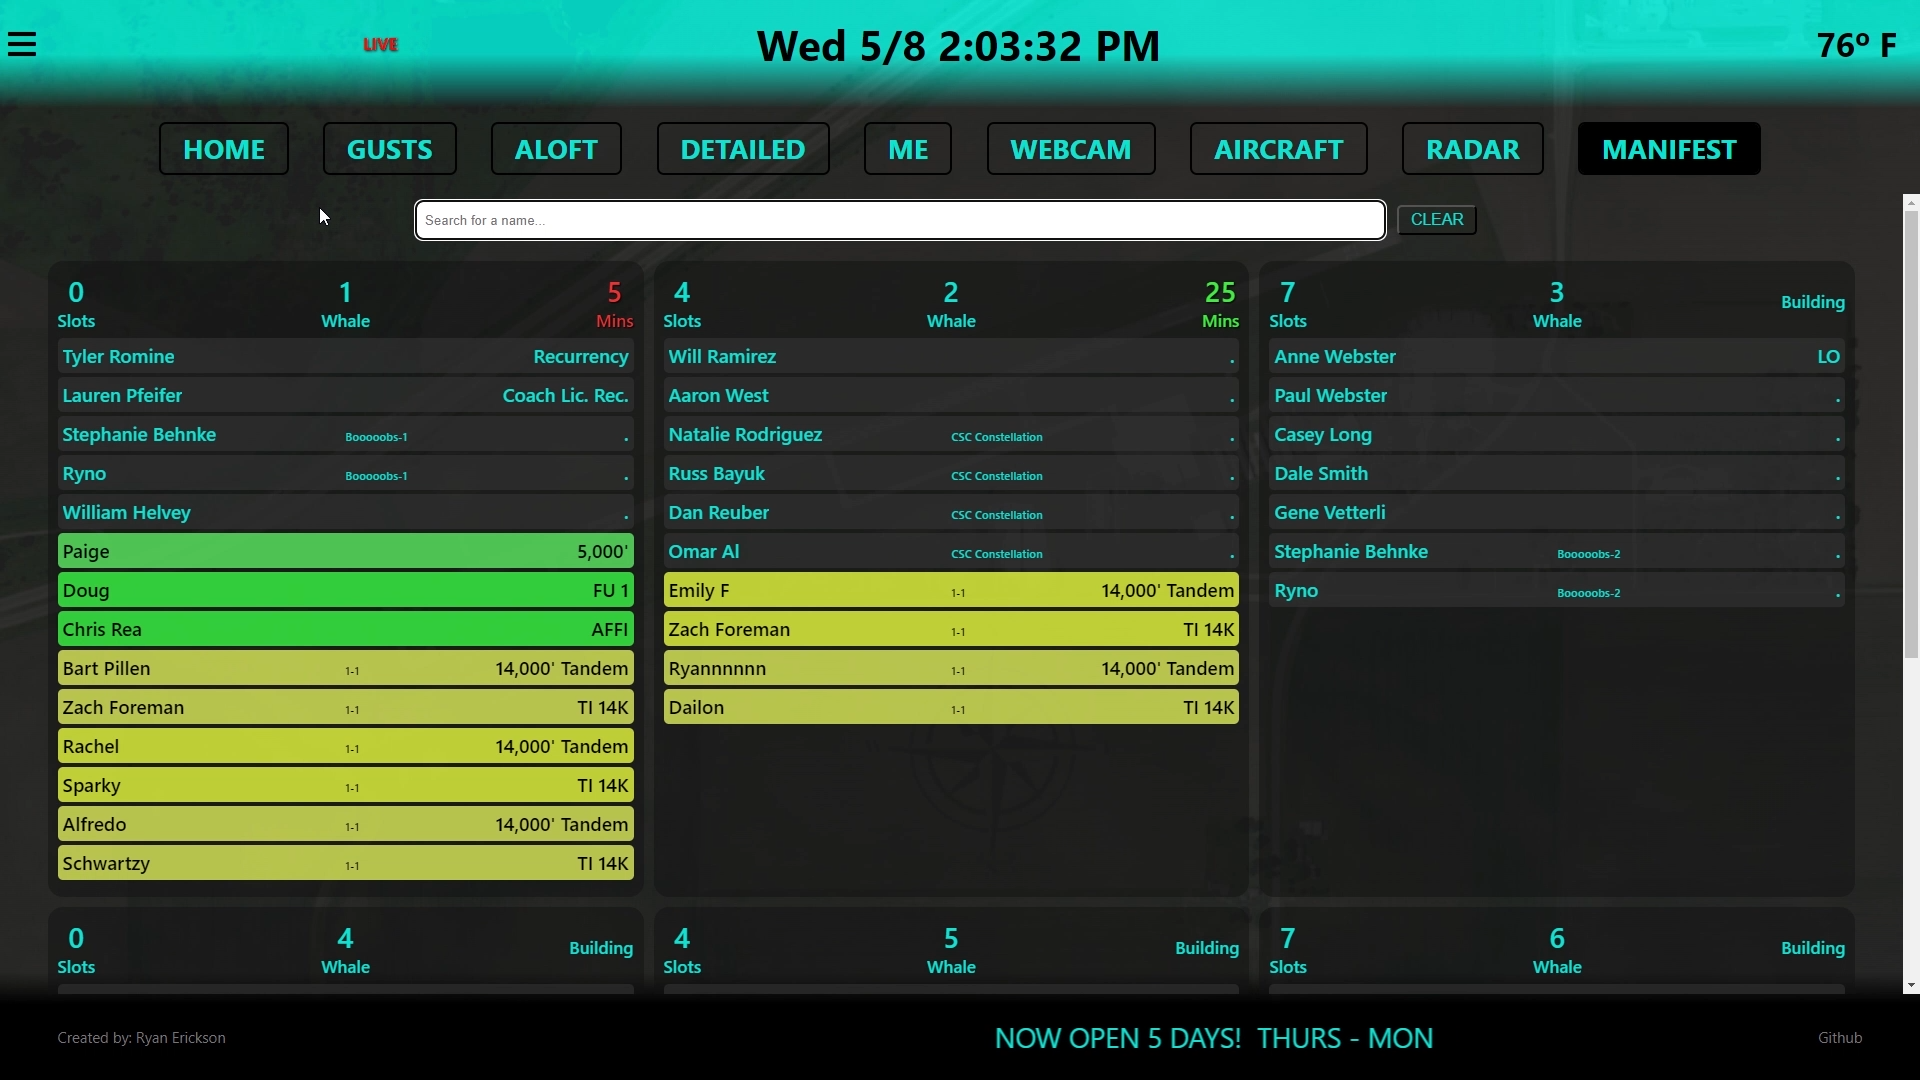
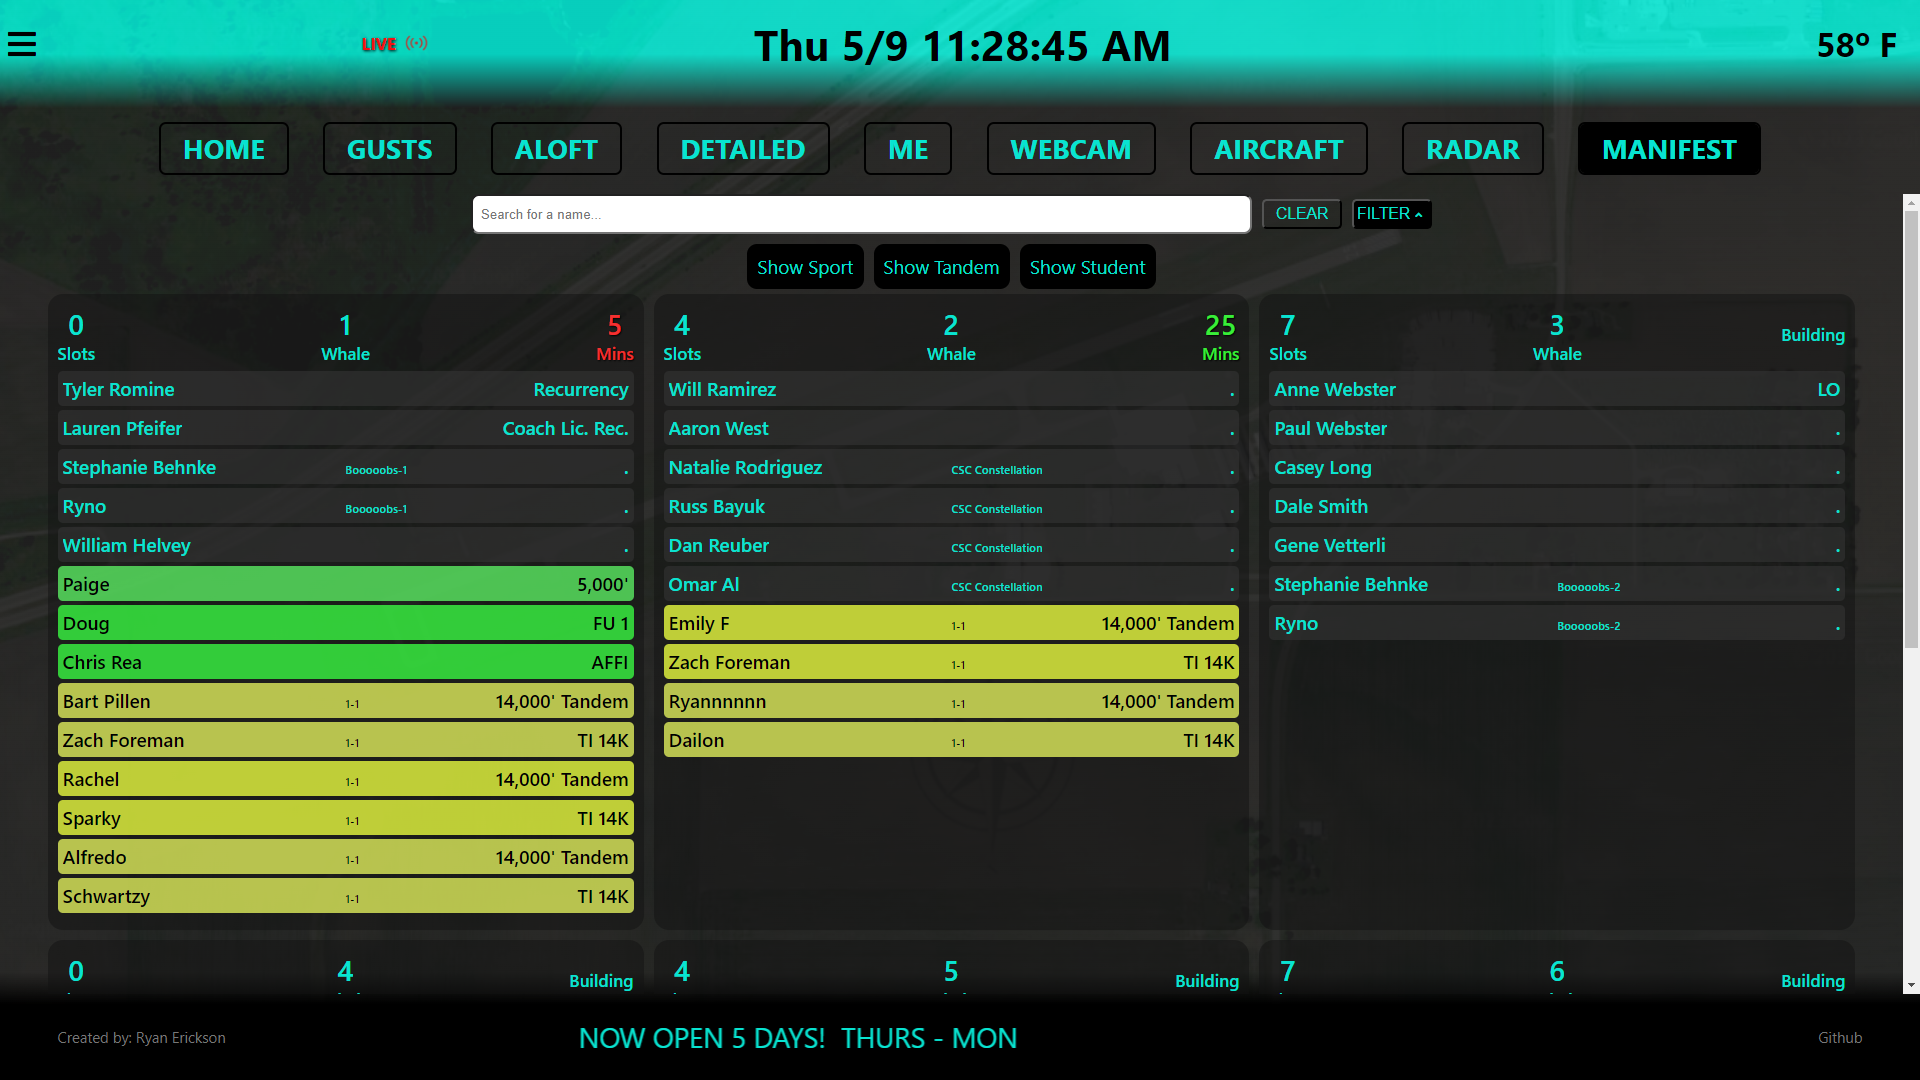
manifest readme

diff --git a/README.md b/README.md
@@ -84,7 +84,8 @@ The Radar section displays an embed of the Windy App showing current weather con
 ![manifest](/src/images/readme/Manifest.png)
 
 The manifest tab lets you view live manifest activity from Burble at the DZ.
-At the top is a search bar that allows you to filter the loads by jumper or team name to quickly find yourself, your friends or group.
+At the top is a search bar that allows you to search current loads by jumper or team name to quickly find yourself, your friends or group.
+You also have the option to filter jumpers by type.
 As with the rest of the app it updates automatically, no refreshing necessary.
 Tandems are yellow, students are green, and all other jumps are not colored.
 
